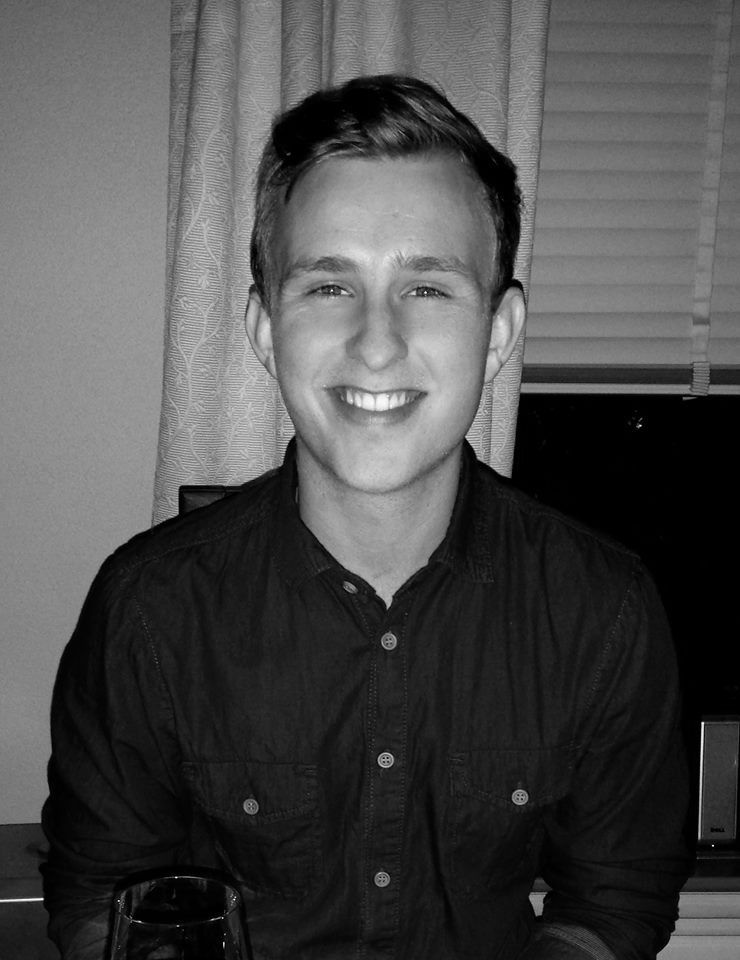
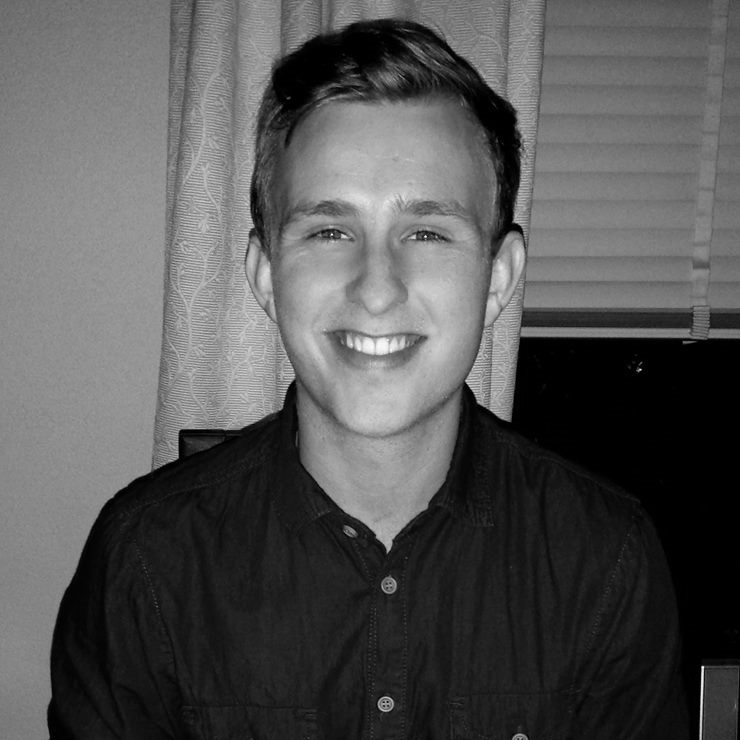
Fixed the profileLook:)

diff --git a/ConnectInSolution/ConnectIn/Content/Site.css b/ConnectInSolution/ConnectIn/Content/Site.css
@@ -471,12 +471,17 @@ button.btnNew.privacy {
 
 #profileborder {
     border-top: solid rgb(228, 228, 228) 1px;
-    margin-bottom: 20px
+    margin-bottom: 20px;
 }
 
 #userNameOnProfile {
     display: inline-block;
-    
+    margin-top: 30px;
+}
+#userNameH1 {
+    color: white; 
+    float: left;
+    margin-left: 10px;
 }
 
 #coverphoto
@@ -485,11 +490,16 @@ button.btnNew.privacy {
     height:100%;
 }
 #userProfilePicture {
-    width: 200px;
-    height: auto;
-    max-height: 200px;
-    float: left;
-    margin-right: 15px;
+    width: 200px; 
+    height: 200px; 
+    padding-top: 10px; 
+    padding-left: 10px;
+}
+
+.coverPhotoGradient {
+    width: 100%;
+    background: url(/Content/Images/blackGradient.png) bottom left repeat-x; 
+    /*border-bottom-color: rgba(0,0,0,.4);*/
 }
 .img-responsiveProfilePic {
     max-width: 200px;
@@ -505,21 +515,36 @@ button.btnNew.privacy {
     
 }
 
-.redBell {
-    color: red;
-    background-color: red;
-}
 .form-horizontal
 {
     margin-left:0px;
 }
-#PhotoButton {
-    display: inline-block;
+.profileStars {
+    margin-top: 200px;
+    margin-right: 15px;
 }
 
+#PhotoButton {
+    display: inline;
+    margin-top: 20px;
+    margin-right: 10px;
+    margin-left: 10px;
+    margin-bottom: 10px;
+    float: left;
+}
+
+.btn.fa.fa-camera.btn-primary {
+        padding: 3px 4px;
+
+}
+
+.dangerFix {
+    margin-left: 85px;
+}
 #addFriendButton {
-    display: inline-block;
-    float: right;
+    margin-left: 25px;
+    margin-top: 25px;
+    margin-right: 25px;
 }
 .friendsListName {
     display: block;
@@ -547,8 +572,17 @@ button.btnNew.privacy {
 #ProfilePostWell {
         overflow: hidden;
     height: auto;
+    width: 68%;
+    float: right;
+    margin-left: 15px;
+}
+#aboutUser {
+    width: 30%;
+    float: left;
     margin-top: 15px;
-    margin-left: 25%;
+}
+p.clear {
+    clear: both;
 }
 
 
@@ -954,13 +988,12 @@ div.ellipsis-text {
     max-height: 100px;
 }
 
-#aboutUser {
-    position: relative;
-    display: inline-block;
-    margin-right: -20%;
 
 .fakeLink {
     color: blue;
     text-decoration: underline;
     cursor: pointer;
+}
+
+div#posts.row {
 }
